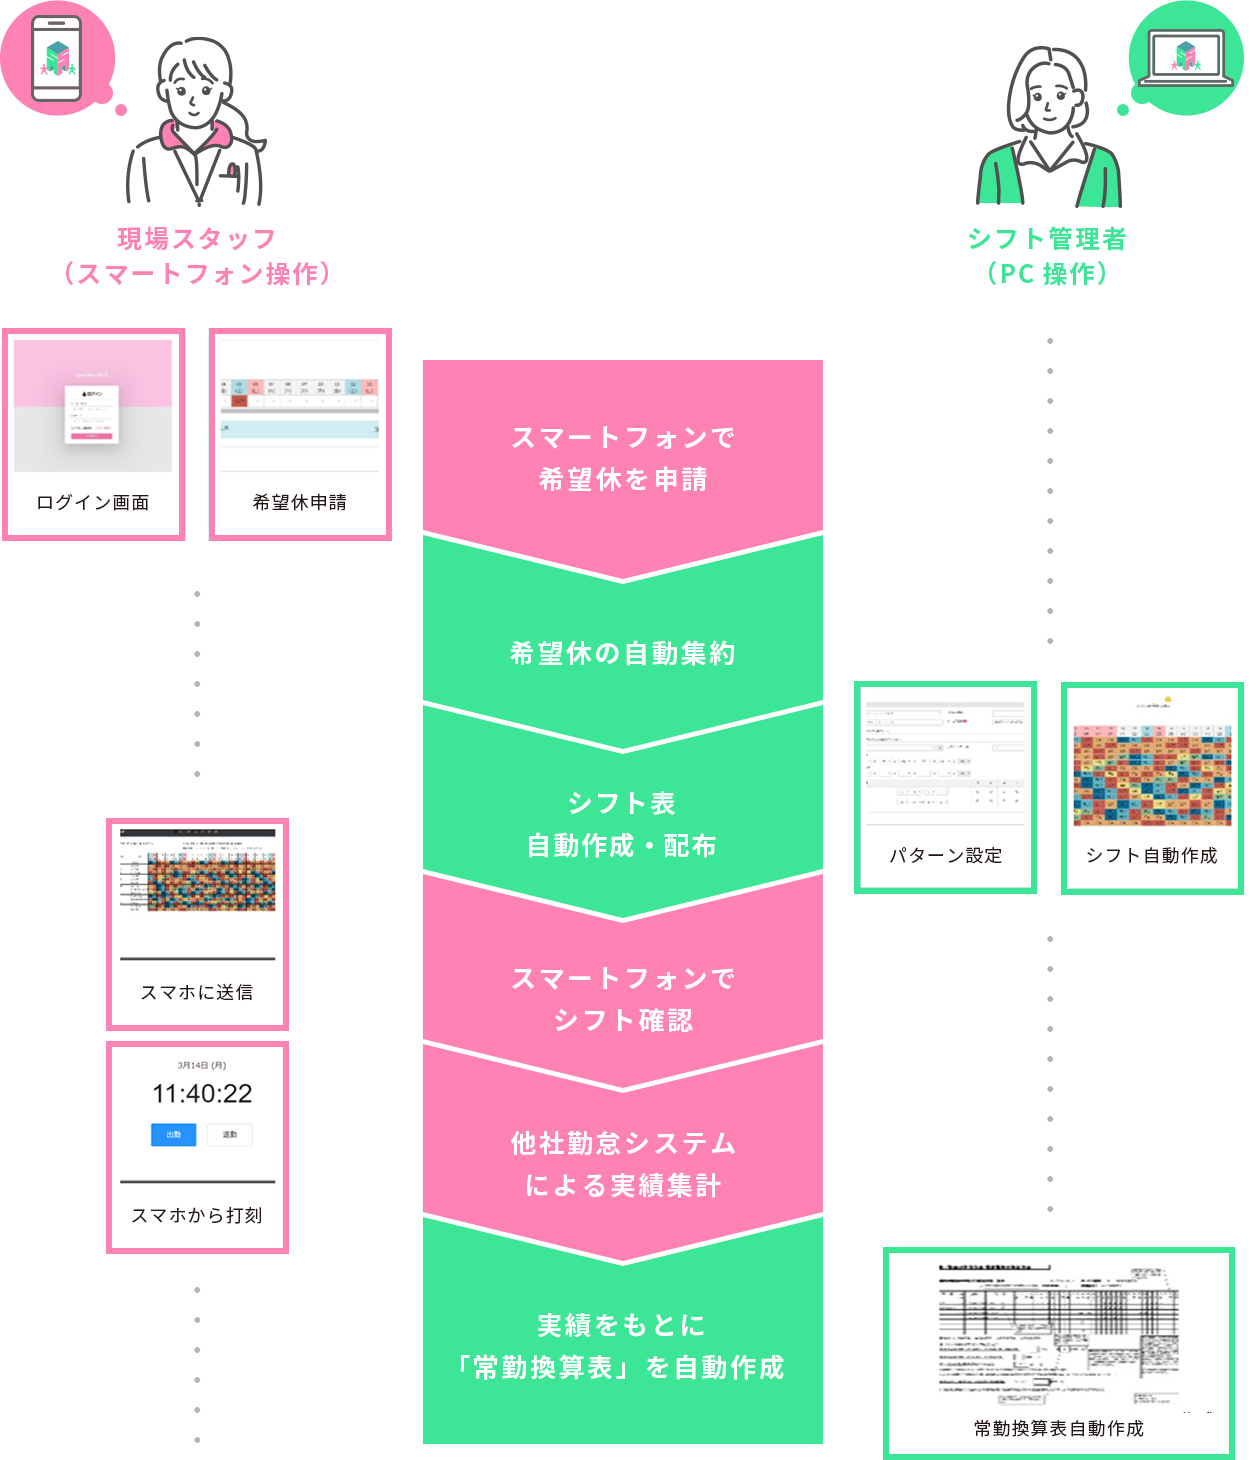
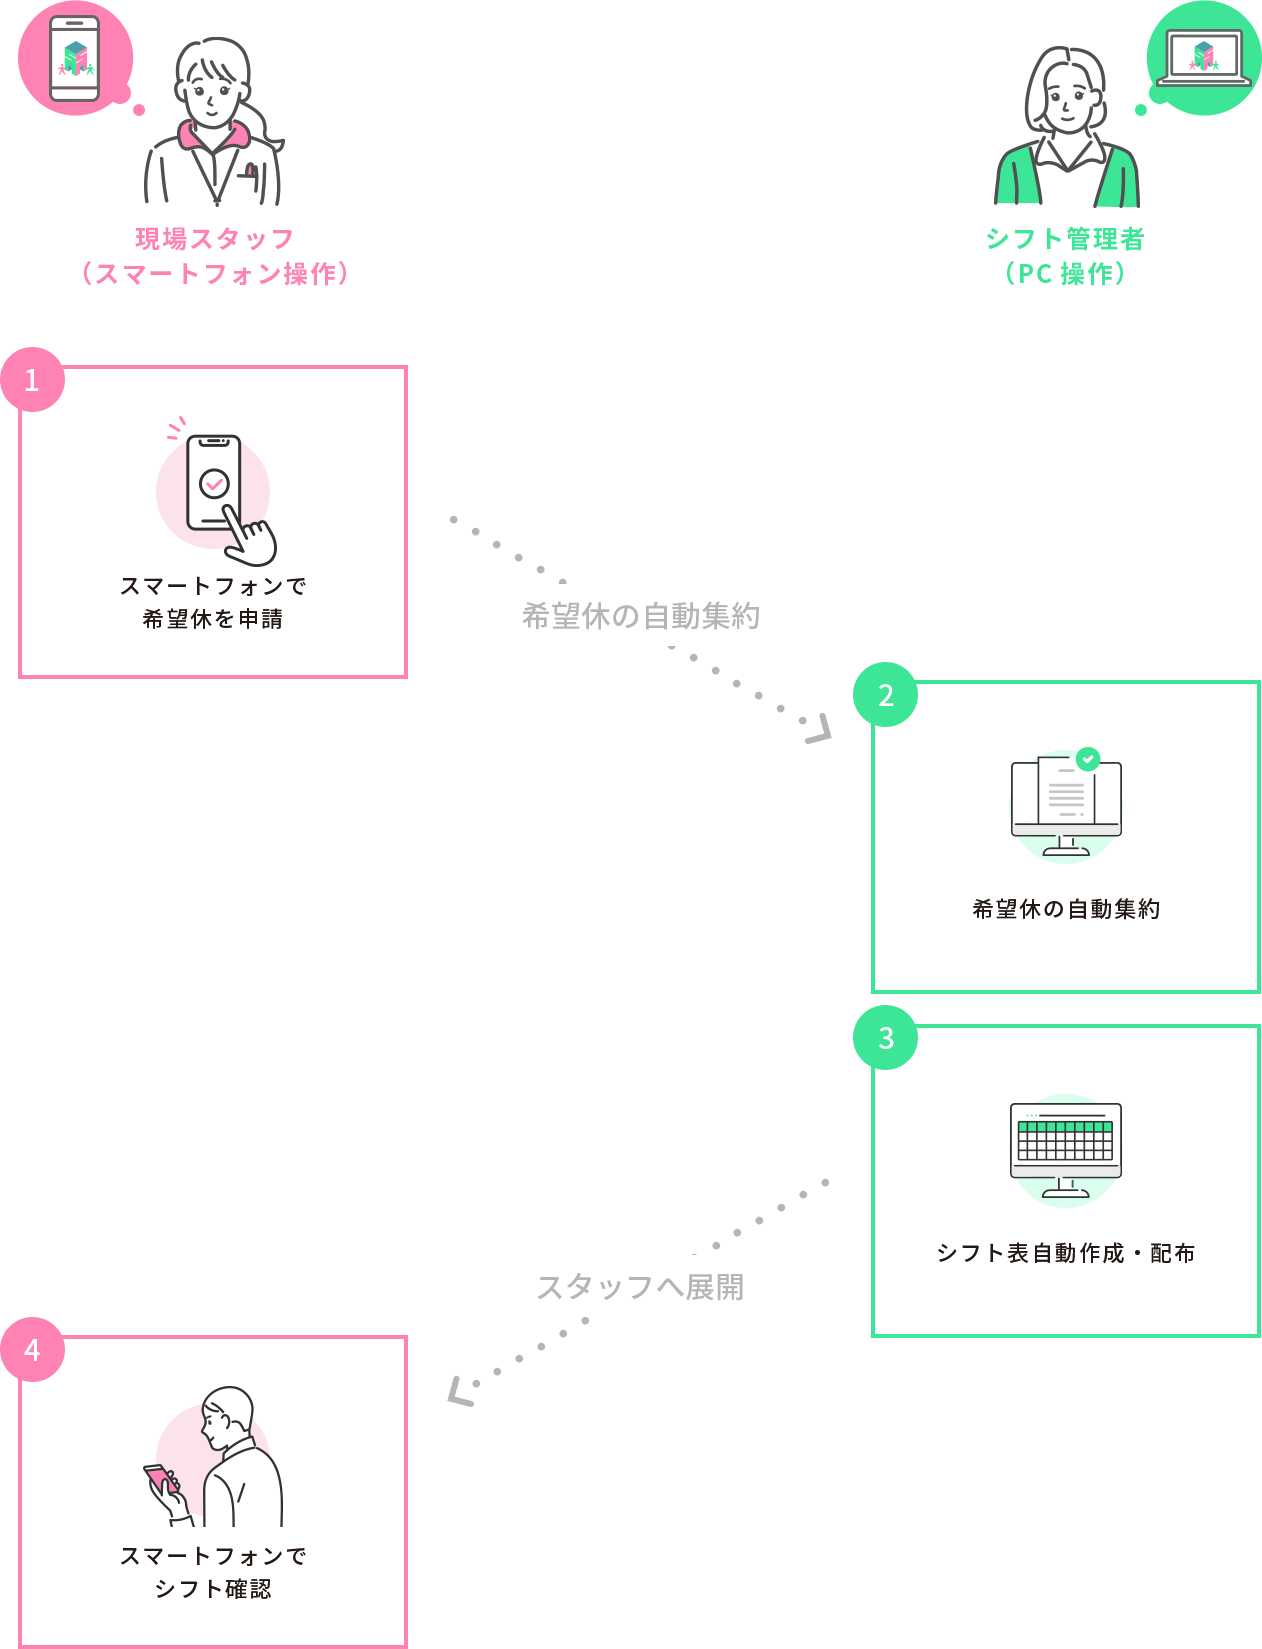
修正内容アップロード
修正内容アップロード

diff --git a/synchroshift/index.html b/synchroshift/index.html
@@ -281,10 +281,18 @@ j=d.createElement(s),dl=l!='dataLayer'?'&l='+l:'';j.async=true;j.src=
     </section>
     
     
-    <section id="a6" class="pt-160 pb-130 container1280">
-        <p class="eng_midashi font2 z500"><span>FLOW</span></p>
-        <h2 class="img_midashi font_b mt-25 spmt-20 z500">使い方の流れ</h2>
-        <div class="flow_img"><img src="images/top32.png" width="1252" height="1460" alt=""></div>
+    <section id="a6" class="pt-160 pb-130">
+        <div class="container1280">
+            <p class="eng_midashi font2 z500"><span>FLOW</span></p>
+            <h2 class="img_midashi font_b mt-25 spmt-20 z500">使い方の流れ</h2>
+            <p class="center text30 mt-30 spmt-20">（１． 希望休の収集～シフト表の展開まで）</p>
+            <div class="flow_img"><img src="images/top32.png" width="1252" height="1460" alt=""></div>
+        </div>
+        <div class="top_line"></div>
+        <div class="container1280">
+            <p class="center text30">（２． 常勤換算表の作成：他社勤怠システムとの連携）</p>
+            <div class="center max_img100 mt-50 spmt-30"><img src="images/top32_2.png" width="1262" height="370" alt=""></div>
+        </div>
     </section>
     
     <!--
@@ -354,30 +362,7 @@ j=d.createElement(s),dl=l!='dataLayer'?'&l='+l:'';j.async=true;j.src=
             <p class="eng_midashi font2 z500"><span>FLOW</span></p>
             <h2 class="img_midashi font_b mt-25 spmt-20 z500">ご利用の流れ</h2>
             
-            <div class="flow_list mt-50 spmt-30">
-                <div>
-                    <p class="flow_num font2">1</p>
-                    <p class="flow_p color_pink">「無料で試す」<br>ボタンを押す</p>
-                </div>
-                <div>
-                    <p class="flow_num font2">2</p>
-                    <p class="flow_p color_pink">専用フォームから<br>必要な情報を入力</p>
-                </div>
-                <div>
-                    <p class="flow_num font2">3</p>
-                    <p class="flow_p color_pink">メールでログイン<br>ページをご案内</p>
-                </div>
-                <div>
-                    <p class="flow_num font2">4</p>
-                    <p class="flow_p color_pink">初期登録</p>
-                </div>
-                <div class="flow_item_center">
-                    <div>
-                        <p class="comp_p">利用開始<br><span>(シフト自動作成)</span></p>
-                    </div>
-                </div>
-            </div>
-            
+            <div class="center max_img100 mt-50 spmt-30"><img src="images/top_flow.png" width="1244" height="1393" alt=""></div>
         </div>
     </section>
     

diff --git a/synchroshift/css/index.css b/synchroshift/css/index.css
@@ -710,23 +710,6 @@ header {
   left: 0;
   width: 100%;
   z-index: 999;
-  transition: 0.3s ease;
-}
-
-header.fadeOut {
-  opacity: 0;
-}
-
-header.fadeOut a {
-  pointer-events: none;
-}
-
-header.fadeIn {
-  opacity: 1;
-}
-
-header.fadeIn a {
-  pointer-events: auto;
 }
 
 .header_bg {
@@ -1225,13 +1208,19 @@ header.fadeIn a {
 
 /************/
 .flow_img {
-  margin-top: -120px;
+  margin-top: -40px;
   text-align: center;
 }
 
 .flow_img img {
   max-width: 100%;
   height: auto;
+}
+
+.top_line {
+  background: url("../images/top_line.png") 50% 0/1920px 57px no-repeat;
+  height: 57px;
+  margin: 100px 0;
 }
 
 /***********/
@@ -2704,6 +2693,9 @@ input[type="file"]::-webkit-file-upload-button {
   .merit_list h3 {
     padding: 10px 10px;
   }
+  .flow_img {
+    margin-top: 10px;
+  }
   /*********/
   .free_bg > div {
     padding-left: 0;
@@ -3467,6 +3459,9 @@ input[type="file"]::-webkit-file-upload-button {
     margin-bottom: 80px;
   }
   /************************/
+  header {
+    position: absolute;
+  }
   .logo {
     width: 200px;
   }
@@ -3700,9 +3695,6 @@ input[type="file"]::-webkit-file-upload-button {
     left: 0;
   }
   /************/
-  .flow_img {
-    margin-top: -40px;
-  }
   /***********/
   .slider.slider_style {
     margin-top: -32px;

diff --git a/synchroshift/scss/index.scss b/synchroshift/scss/index.scss
@@ -546,12 +546,17 @@ header {
 
 /************/
 .flow_img {
-    margin-top: -120px;
+    margin-top: -40px;
     text-align: center;
     img {
         max-width: 100%;
         height: auto;
     }
+}
+.top_line {
+    background: url("../images/top_line.png") 50% 0/1920px 57px no-repeat;
+    height: 57px;
+    margin: 100px 0;
 }
 
 /***********/
@@ -1622,6 +1627,9 @@ $mb: 120;
         padding: 10px 10px;
     }
 }
+.flow_img {
+    margin-top: 10px;
+}
 
 /*********/
 .free_bg {
@@ -1919,6 +1927,9 @@ $mb: 110;
 
 
 /************************/
+header {
+    position: absolute;
+}
 
 .logo {
     width: 200px;
@@ -2180,9 +2191,6 @@ $mb: 110;
     }
 }
 /************/
-.flow_img {
-    margin-top: -40px;
-}
 
 /***********/
 

diff --git a/synchroshift/css/reset.css b/synchroshift/css/reset.css
@@ -213,6 +213,9 @@ h2,h3 {
 .order2 {
 	order:2;
 }
+.center {
+    text-align: center;
+}
 @media only screen and  (min-width: 1024px) {
 .lg\:grid-cols-3 {
     grid-template-columns: repeat(3, minmax(0, 1fr));
